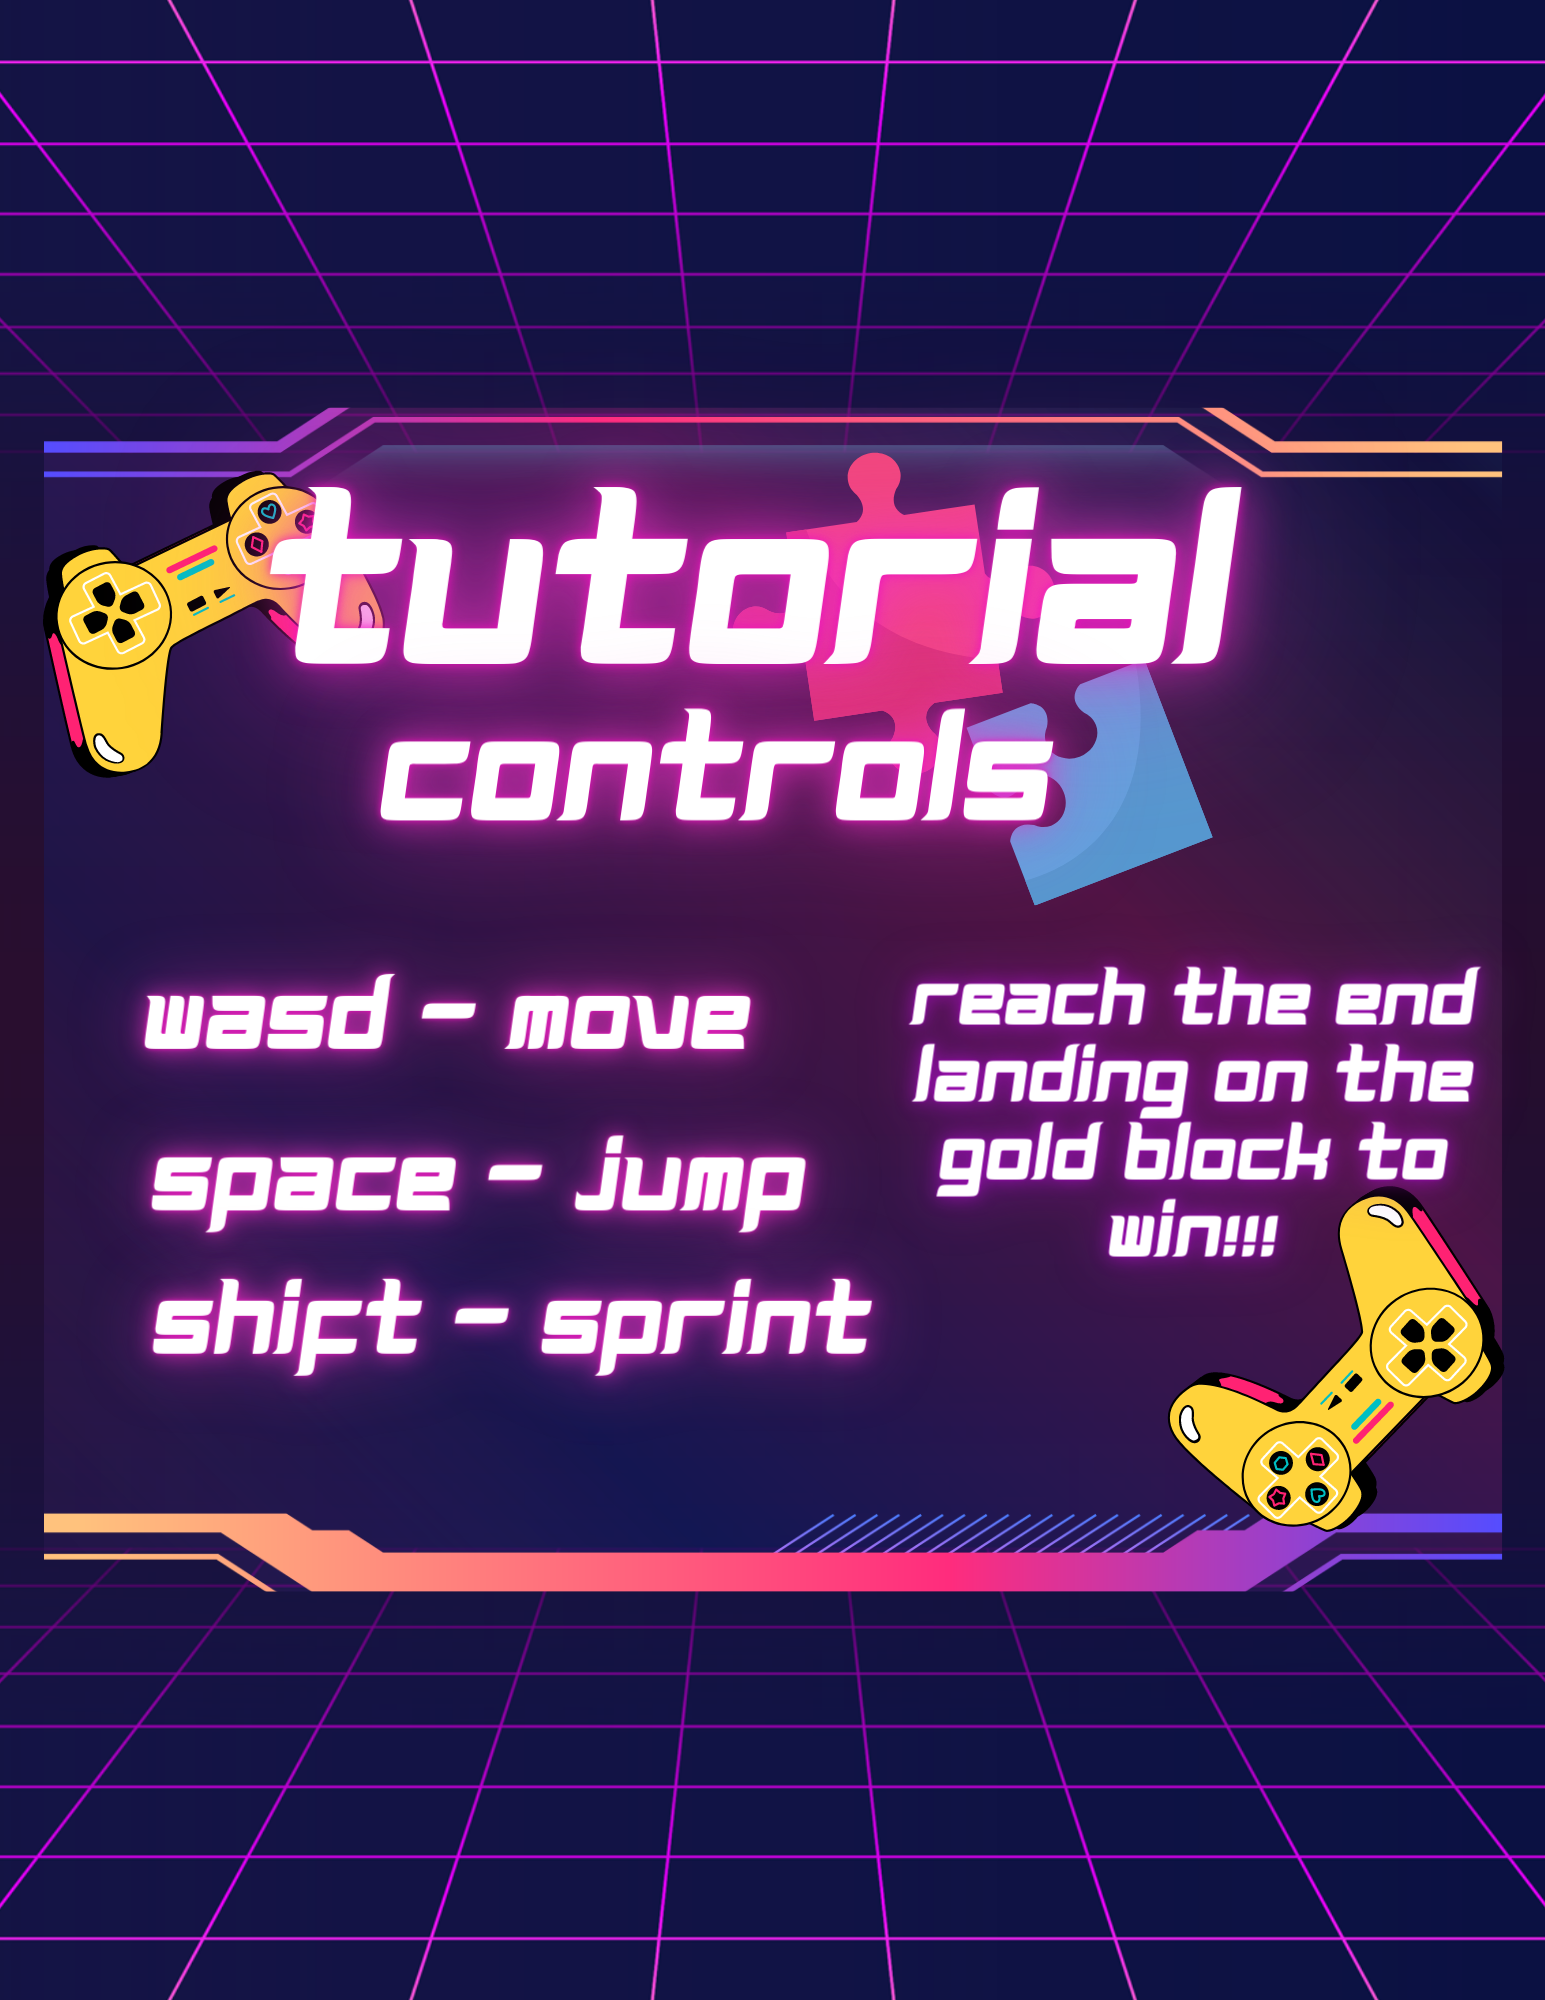
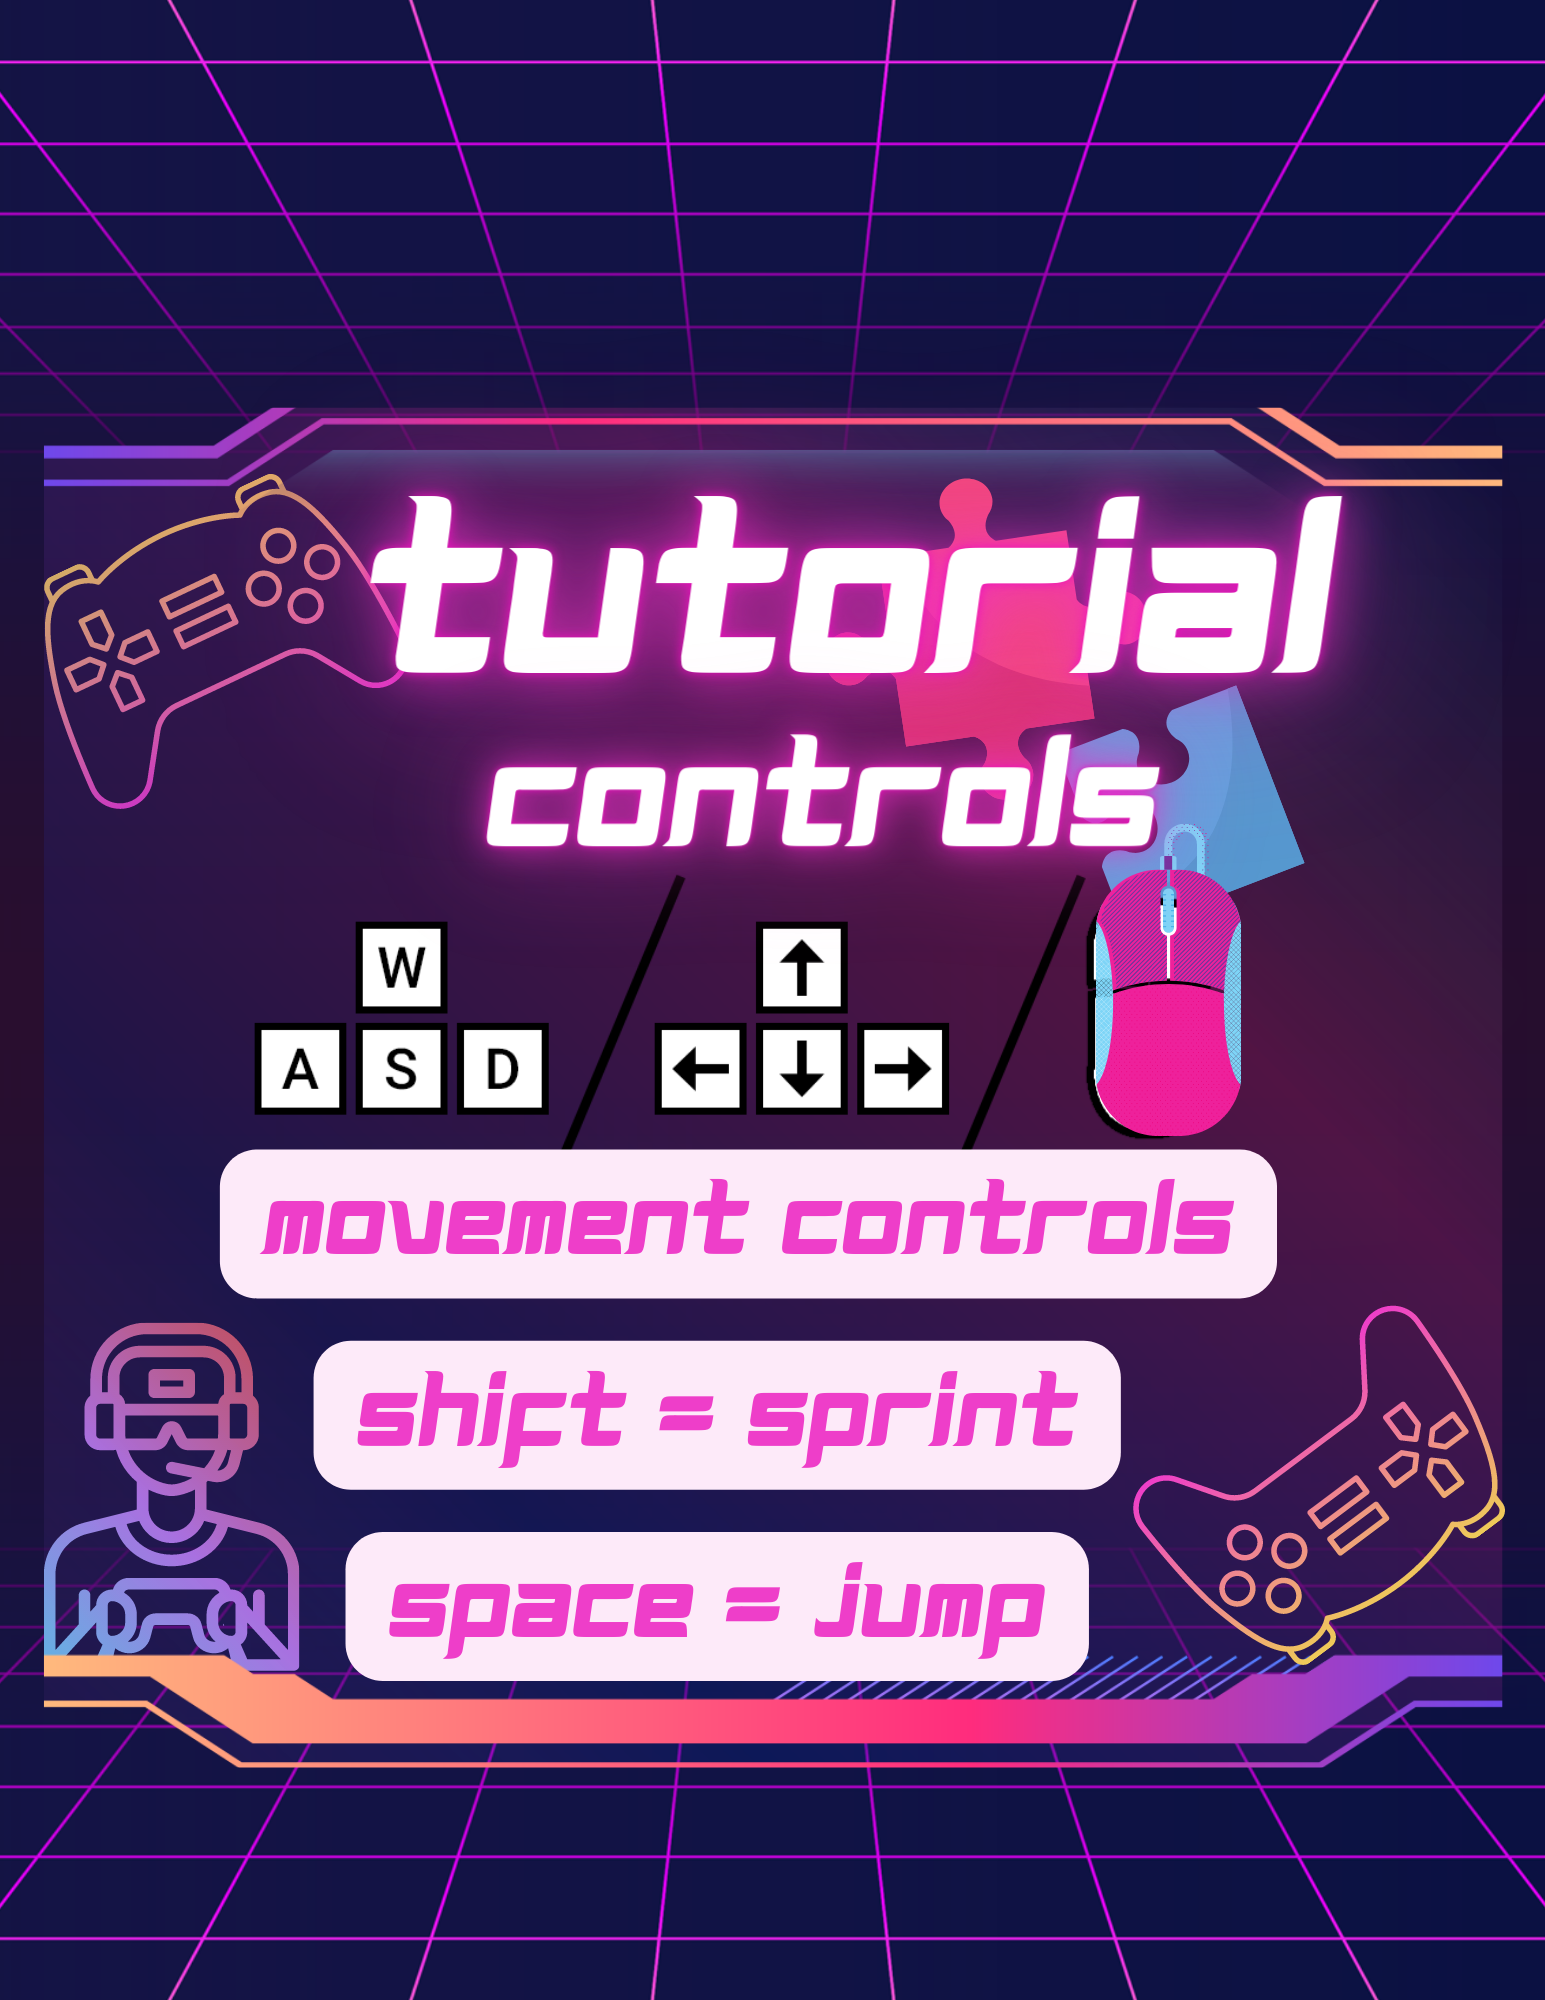
feat: updated the tutorial seciton

diff --git a/src/components/Gaming/Tutorial.jsx b/src/components/Gaming/Tutorial.jsx
@@ -1,4 +1,5 @@
-import tutorial from "../images/tutorial.png"
+import tutorial from "../images/tutorial.png";
+import htp from "../images/htp.png";
 import play from "../images/playButton.png";
 import { useNavigate } from "react-router-dom";
 import React, { useState } from "react";
@@ -11,11 +12,12 @@ const Tutorial = () => {
   const [isHover, setIsHover] = useState(false);
 
   const boxStyle = {
-    backgroundColor: isHover ? 'black' : 'white',
-    color: isHover ? 'black' : 'white',
+    backgroundColor: isHover ? "black" : "white",
+    color: isHover ? "black" : "white",
     borderRadius: "50%",
-    width: "300px"
- };
+    width: "200px",
+    height: "100px"
+  };
 
   const handleMouseEnter = () => {
     setIsHover(true);
@@ -27,20 +29,17 @@ const Tutorial = () => {
   return (
     <>
       <div className="w-full h-full bg-galaxy bg-no-repeat bg-cover flex justify-center">
-        <img
-          src={tutorial}
-          alt="tutorial"
-          className="h-full"
-        />
+        <img src={tutorial} alt="tutorial" className="h-full" />
+        <img src={htp} alt="how to play" className="h-full" />
       </div>
       <img
         src={play}
         alt="play"
-        className="absolute bottom-0 right-0"
+        className="absolute bottom-0 right-0 z-[10]"
         style={boxStyle}
         onMouseEnter={handleMouseEnter}
         onMouseLeave={handleMouseLeave}
-        onClick = {() => (flightSFX.play(),navigate("/game"))}
+        onClick={() => (flightSFX.play(), navigate("/game"))}
       />
     </>
   );

diff --git a/src/components/Gaming/hooks/useKeyboard.jsx b/src/components/Gaming/hooks/useKeyboard.jsx
@@ -8,8 +8,11 @@ function actionKeys(key){
         KeyD: "goRight",
         Space: "jump",
 		ShiftLeft: "sprint",
-        Digit1: "stone",
-		Digit2: "grass"
+		ArrowUp: "goForward",
+        ArrowLeft: "goLeft",
+        ArrowDown: "goBackward",
+        ArrowRight: "goRight",
+		Escape: "exit",
     }
     return keyActionList[key]
 }
@@ -21,12 +24,13 @@ export const useKeyboard = () => {
 		goLeft: false,
 		goRight: false,
 		sprint: false,
+		exit: false,
 		grass: false,
 	})
 
 	const handleKeyDown = useCallback((e) => {
    		const action = actionKeys(e.code)
-	
+		console.log(e.code)
 		if (action) {
 			setActions((prev) => {
 				return ({

diff --git a/src/components/Gaming/Player.jsx b/src/components/Gaming/Player.jsx
@@ -24,7 +24,7 @@ let MOVE = 4;
 export const Player = () => {
   const navigate = useNavigate();
   const { camera } = useThree();
-  const { goBackward, goForward, goRight, goLeft, jump, sprint } =
+  const { goBackward, goForward, goRight, goLeft, jump, sprint, exit } =
     useKeyboard();
   const removePoint = useStore((state) => state.removePoint);
   const resetPoint = useStore((state) => state.resetPoint);
@@ -36,6 +36,7 @@ export const Player = () => {
   const reset = () => {
     resetPoint();
   };
+  if(exit) navigate("/play")
 
   const [ref, api] = useSphere(() => ({
     mass: 1,
